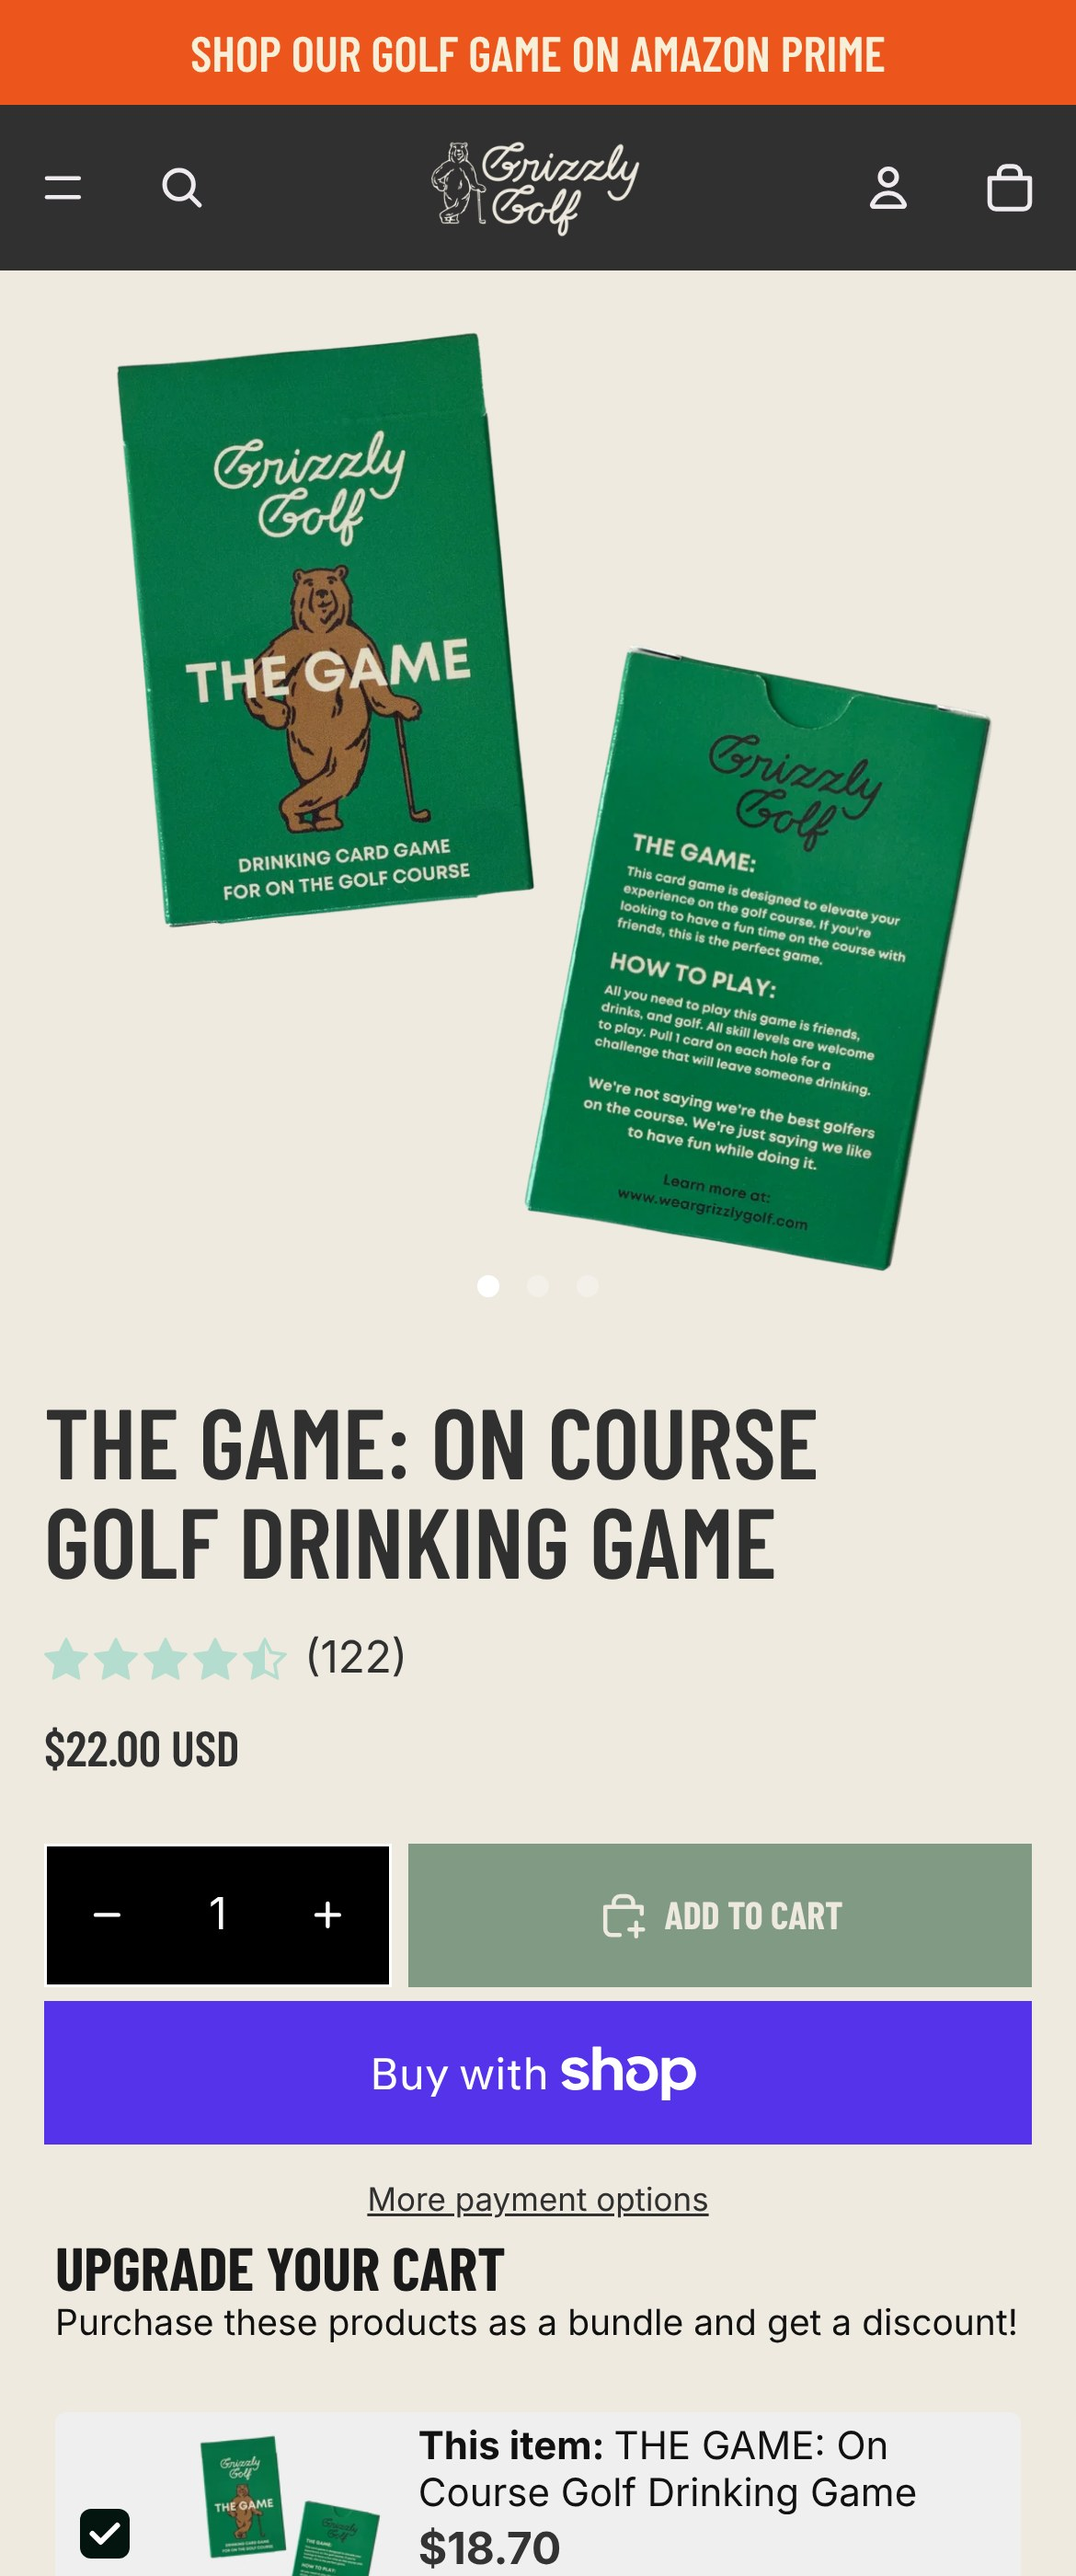
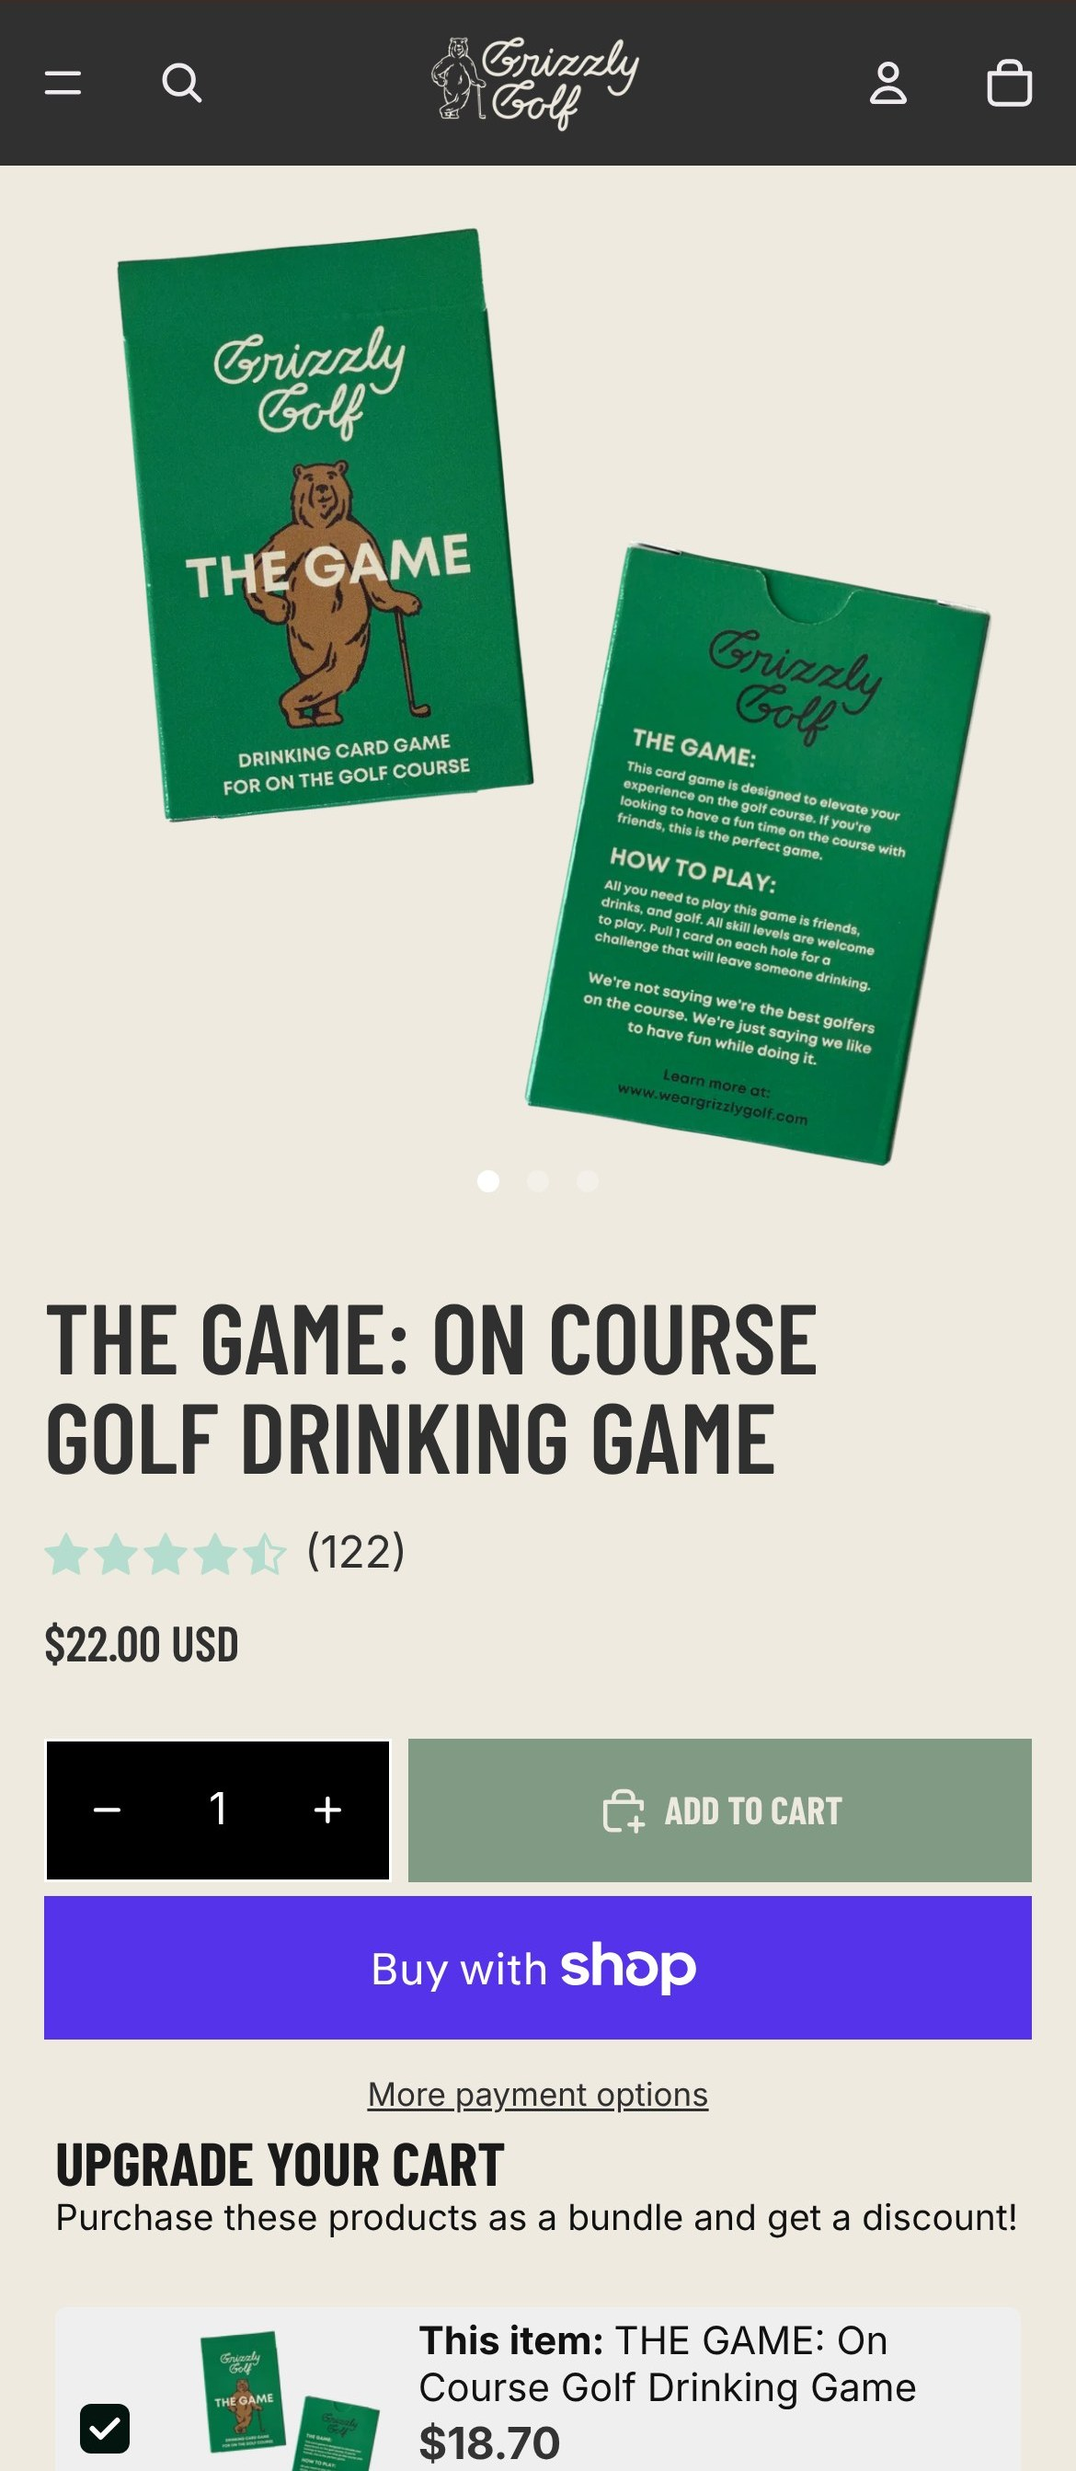
Drop orange: rebuild palette on brand green and cream
Headline scene moves to cream with a green bear and green GRIZZLY
block; price badges, CTA strip and URL rule use cream, green and sage.
Crop the store's orange promo banner off the phone screenshots and
re-aim the add-to-cart taps.

Claude-Session: https://claude.ai/code/session_016qBFSpdQVjqQ5WgF91EYtT

diff --git a/videos/grizzly-golf-launch/index.html b/videos/grizzly-golf-launch/index.html
@@ -30,7 +30,6 @@
       :root {
         --green: #0e6739;
         --cream: #eeeae0;
-        --orange: #ec561c;
         --sage: #809a84;
         --ink: #04150f;
       }
@@ -133,7 +132,7 @@
         top: 1190px;
         width: 400px;
         height: 8px;
-        background: var(--orange);
+        background: var(--sage);
         border-radius: 4px;
       }
       #s1-tag {
@@ -152,7 +151,7 @@
 
       /* ---------- S2 kinetic headline ---------- */
       #s2-bg {
-        background: var(--orange);
+        background: var(--cream);
       }
       #s2-words {
         position: absolute;
@@ -255,8 +254,8 @@
         color: var(--cream);
       }
       #f1-copy .eyebrow {
-        background: var(--orange);
-        color: var(--ink);
+        background: var(--cream);
+        color: var(--green);
       }
       #f2-copy {
         color: var(--ink);
@@ -362,13 +361,22 @@
         width: 230px;
         height: 230px;
         border-radius: 50%;
-        background: var(--orange);
-        color: var(--ink);
+        background: var(--cream);
+        color: var(--green);
         display: flex;
         align-items: center;
         justify-content: center;
         font-size: 100px;
         box-shadow: 0 18px 40px rgba(0, 0, 0, 0.3);
+      }
+
+      #f2-price {
+        background: var(--green);
+        color: var(--cream);
+      }
+      #f3-price {
+        background: var(--sage);
+        color: var(--ink);
       }
 
       /* ---------- CTA ---------- */
@@ -381,7 +389,7 @@
         top: 0;
         width: 1080px;
         height: 96px;
-        background: var(--orange);
+        background: var(--sage);
         overflow: hidden;
       }
       #s6-marquee-track {
@@ -480,7 +488,7 @@
         bottom: 0;
         width: 100%;
         height: 8px;
-        background: var(--orange);
+        background: var(--sage);
         transform-origin: 0 50%;
       }
     </style>
@@ -536,7 +544,7 @@
             <span class="w" data-layout-allow-overflow id="hl-grizzly"><span id="hl-grizzly-block"></span><span class="wi">grizzly.</span></span>
           </div>
         </div>
-        <img id="hl-bear" src="assets/brand/logo-bear.png" alt="" />
+        <img id="hl-bear" src="assets/brand/logo-bear-green.png" alt="" />
       </section>
 
       <!-- ===== S3–S5 · 8–23s · Three feature scenes, one persistent phone ===== -->
@@ -570,9 +578,9 @@
         <div id="phone" data-layout-allow-overflow>
           <div id="screen">
             <div id="strip" data-layout-allow-overflow>
-              <div class="shot"><img id="shot1" src="assets/ui/game-ui.jpg" alt="The Game product page" /><div class="tap" id="tap1" style="left: 364px; top: 924px"></div></div>
-              <div class="shot"><img id="shot2" src="assets/ui/hat-ui.jpg" alt="Bear Hat product page" /><div class="tap" id="tap2" style="left: 347px; top: 844px"></div></div>
-              <div class="shot"><img id="shot3" src="assets/ui/polo-ui.jpg" alt="Polo product page" /><div class="tap" id="tap3" style="left: 347px; top: 1031px"></div></div>
+              <div class="shot"><img id="shot1" src="assets/ui/game-ui.jpg" alt="The Game product page" /><div class="tap" id="tap1" style="left: 364px; top: 873px"></div></div>
+              <div class="shot"><img id="shot2" src="assets/ui/hat-ui.jpg" alt="Bear Hat product page" /><div class="tap" id="tap2" style="left: 347px; top: 793px"></div></div>
+              <div class="shot"><img id="shot3" src="assets/ui/polo-ui.jpg" alt="Polo product page" /><div class="tap" id="tap3" style="left: 347px; top: 980px"></div></div>
             </div>
           </div>
         </div>
@@ -623,7 +631,7 @@
       <audio id="sfx-01" src="assets/sfx/whoosh.mp3" data-start="0.135" data-duration="0.575" data-volume="0.55" data-track-index="10"></audio> <!-- 0.30s bear rises -->
       <audio id="sfx-02" src="assets/sfx/impact-bass-1.mp3" data-start="0.474" data-duration="2.116" data-volume="0.5" data-track-index="11"></audio> <!-- 0.55s bear lands -->
       <audio id="sfx-03" src="assets/sfx/sparkle.mp3" data-start="1.15" data-duration="1.802" data-volume="0.45" data-track-index="10"></audio> <!-- 1.18s script finishes writing -->
-      <audio id="sfx-04" src="assets/sfx/whoosh.mp3" data-start="2.835" data-duration="0.575" data-volume="0.7" data-track-index="11"></audio> <!-- 3.00s orange circle burst -->
+      <audio id="sfx-04" src="assets/sfx/whoosh.mp3" data-start="2.835" data-duration="0.575" data-volume="0.7" data-track-index="11"></audio> <!-- 3.00s cream circle burst -->
       <audio id="sfx-05" src="assets/sfx/click.mp3" data-start="3.235" data-duration="0.366" data-volume="1.0" data-track-index="10"></audio> <!-- 3.31s word 1 -->
       <audio id="sfx-06" src="assets/sfx/click.mp3" data-start="3.585" data-duration="0.366" data-volume="1.0" data-track-index="11"></audio> <!-- 3.66s word 2 -->
       <audio id="sfx-07" src="assets/sfx/click.mp3" data-start="3.935" data-duration="0.366" data-volume="1.0" data-track-index="10"></audio> <!-- 4.01s word 3 -->
@@ -717,9 +725,9 @@
 
       // per-feature beats
       const feats = [
-        { n: 1, t: 8.0, scroll: -110 },
-        { n: 2, t: 13.0, scroll: -130 },
-        { n: 3, t: 18.0, scroll: -60 },
+        { n: 1, t: 8.0, scroll: -60 },
+        { n: 2, t: 13.0, scroll: -80 },
+        { n: 3, t: 18.0, scroll: -12 },
       ];
       feats.forEach(({ n, t, scroll }) => {
         const copy = `#f${n}-copy`;
